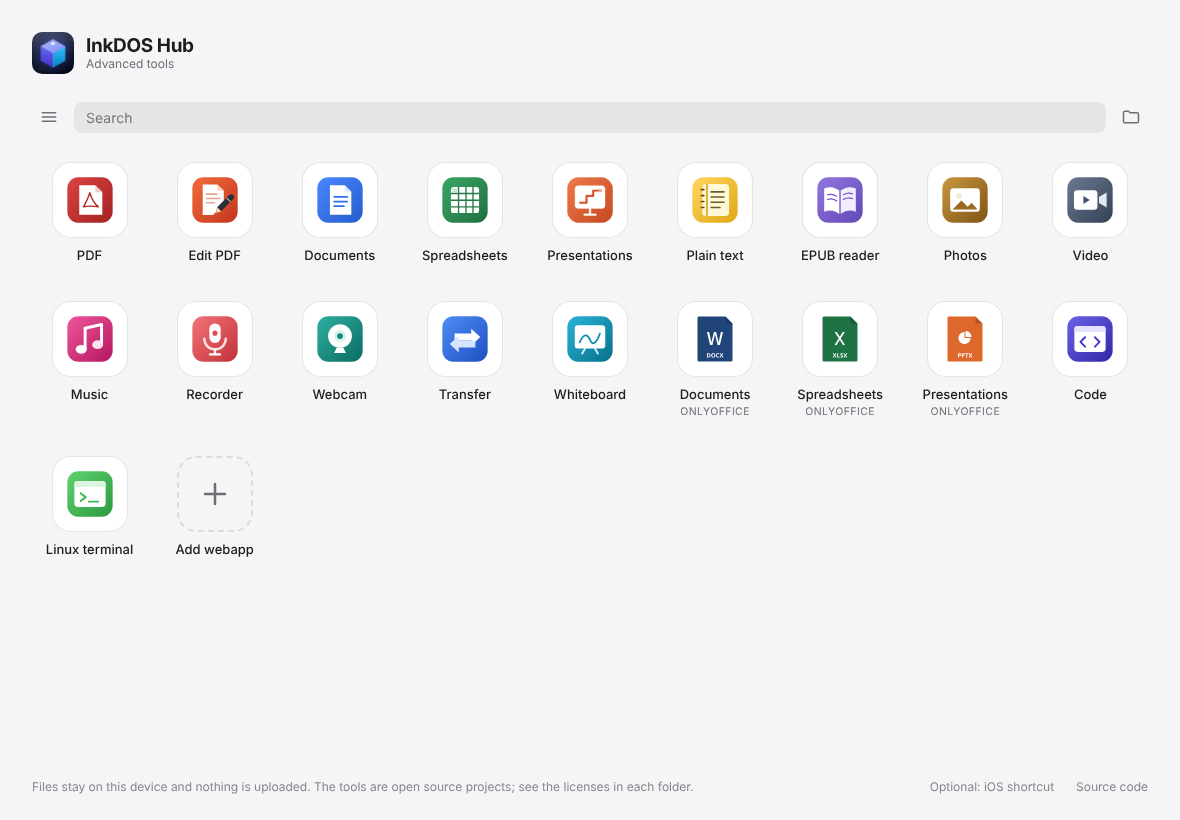
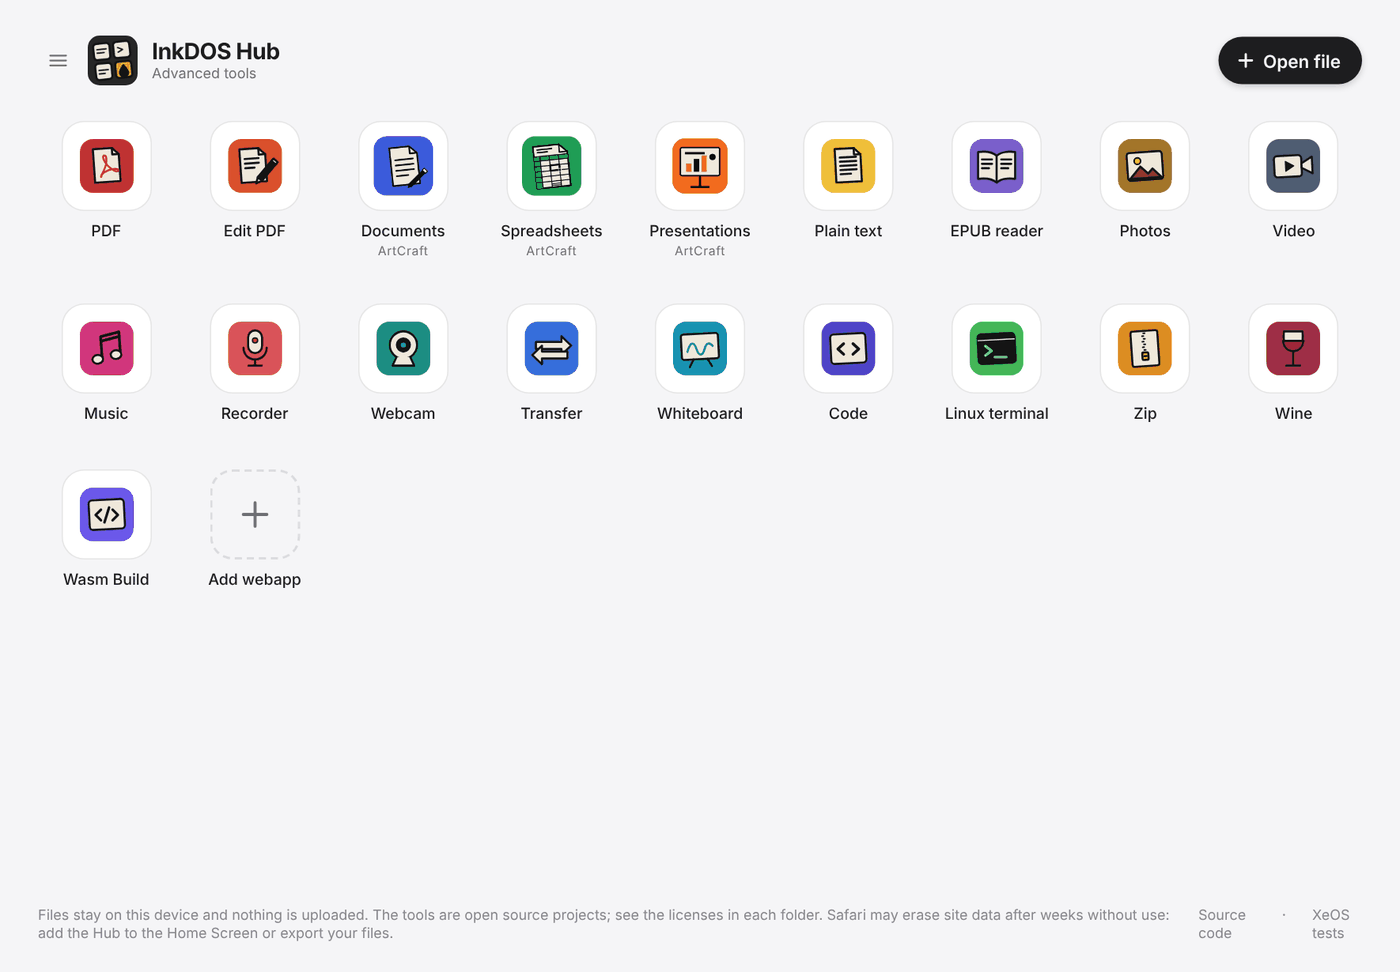
README: new screenshots and GIFs of the apps working
Claude-Session: https://claude.ai/code/session_013qXTaQVqzzHsLziAdyrgHW

diff --git a/README.md b/README.md
@@ -10,6 +10,9 @@ Docs: [Contributing](CONTRIBUTING.md) · [Security](SECURITY.md) · [Support](SU
 
 <p><img src=".github/prints/hub-ipad.png" width="68%" alt="InkDOS Hub on iPad"> <img src=".github/prints/hub-iphone.png" width="28%" alt="InkDOS Hub on iPhone, dark theme"></p>
 
+<p><img src=".github/prints/abrir-arquivo.gif" width="49%" alt="Opening a Word document from the home screen"> <img src=".github/prints/quadro.gif" width="49%" alt="Drawing on the whiteboard"></p>
+<p><img src=".github/prints/planilhas.png" width="49%" alt="A spreadsheet open in Spreadsheets"> <img src=".github/prints/pdf.png" width="49%" alt="A PDF open in the PDF app"></p>
+
 > **No support promised.** InkDOS Hub is a personal project made in spare time. It was tested on iPhone, iPad and a Windows laptop; other devices may or may not work. Feel free to use, copy and adapt it, but fixes, new features and quick answers are not guaranteed. 🙂
 
 ## Apps
